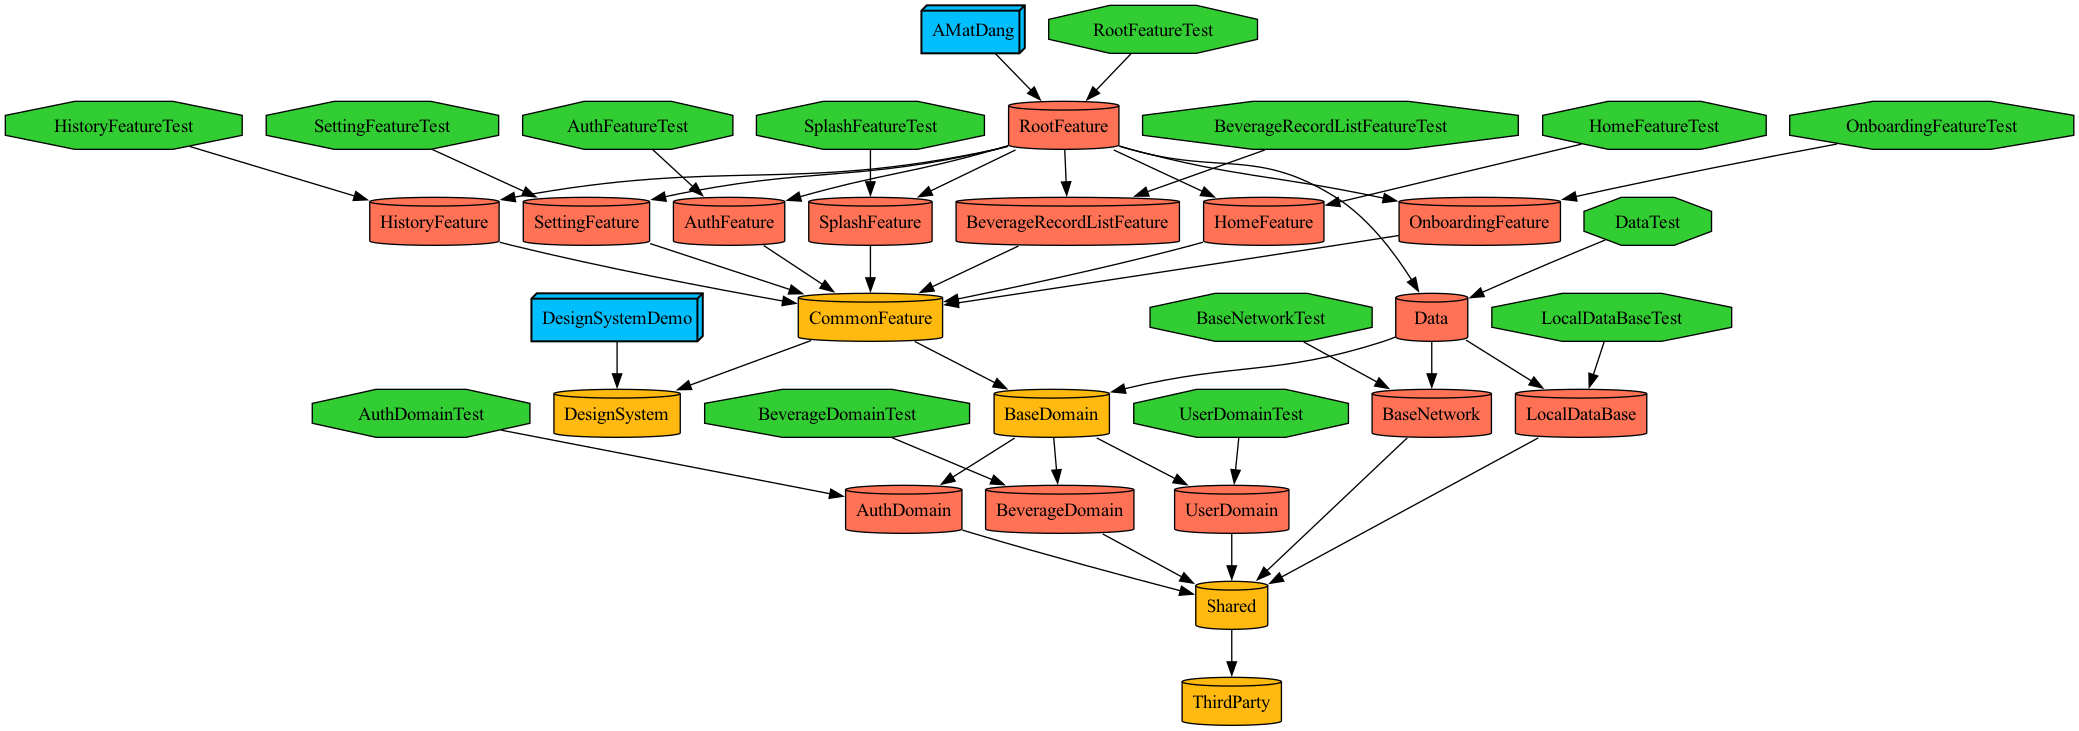
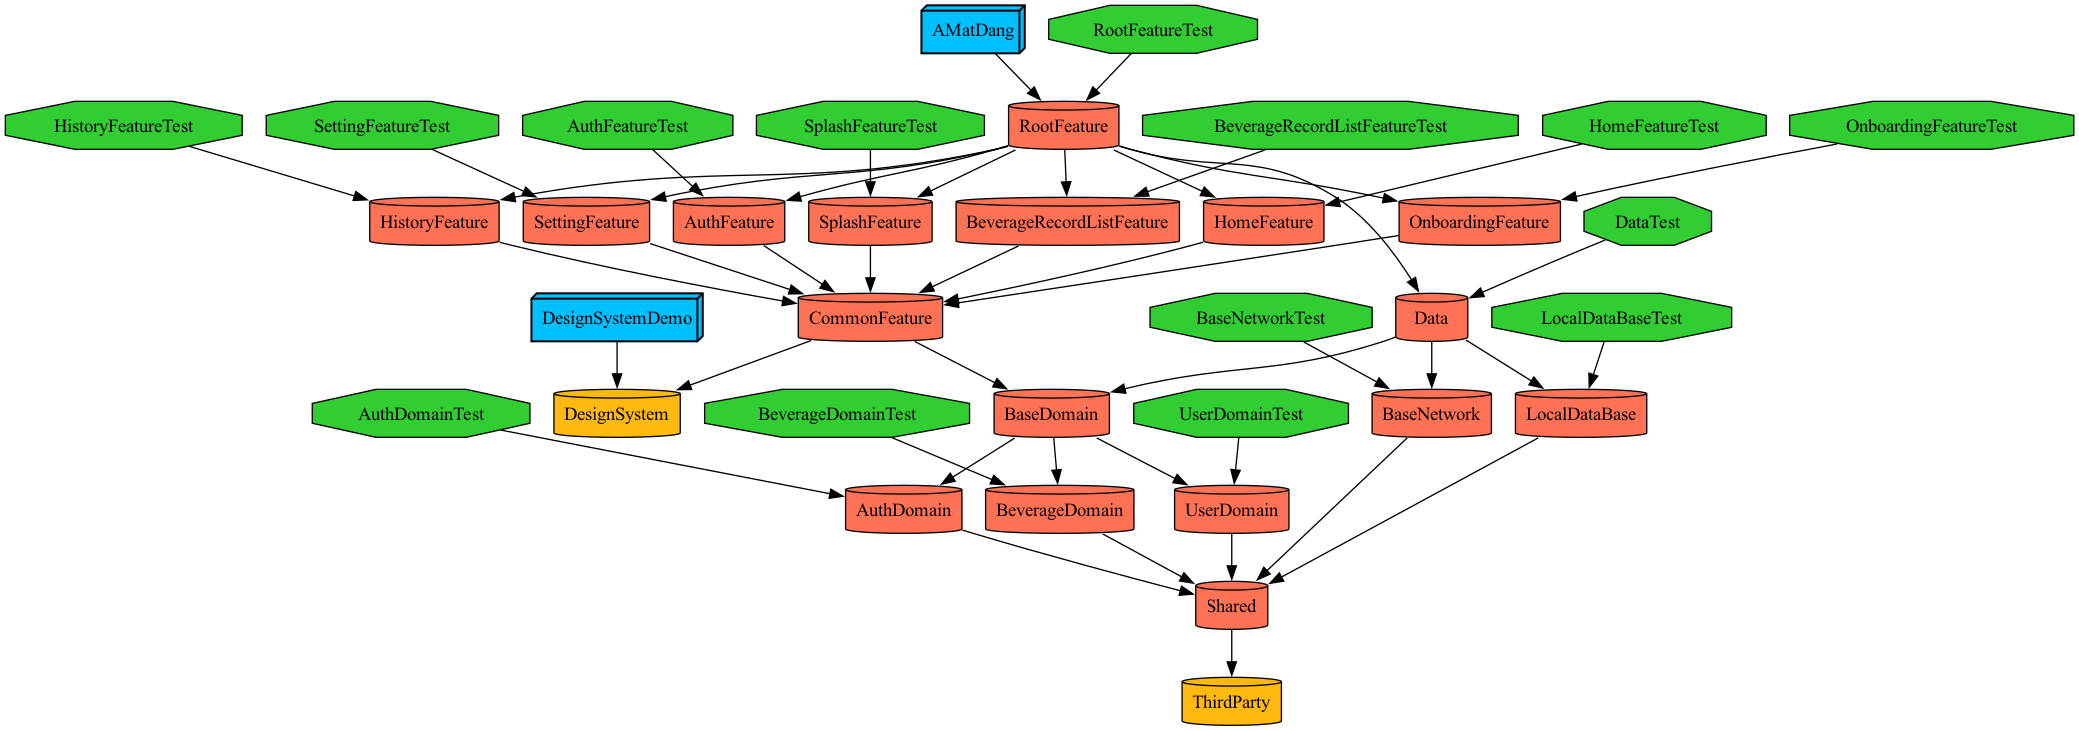
build: ThirdParty umbrella 도입 및 공통 모듈 staticFramework 전환
- 공통 SPM(Dependencies, DependenciesMacros, AsyncAlgorithms)을
  ThirdParty 에 @_exported 로 재노출, 소비 모듈은 ThirdParty 만 import
- Shared / CommonFeature / BaseDomain 및 관련 SPM 6종을
  staticFramework 로 전환 (WWDC22 "Link fast" 가이드 기반)
- Amplitude 는 Shared 직접 의존성으로 이동

Changed region(s): [[0.3694, 0.3912, 0.4618, 0.4815], [0.4618, 0.5116, 0.5541, 0.6019], [0.5541, 0.7825, 0.6157, 0.8728]]

diff --git a/HumanNeverDie/Tuist/Package.swift b/HumanNeverDie/Tuist/Package.swift
@@ -6,15 +6,15 @@ import struct ProjectDescription.PackageSettings
 
 let packageSettings = PackageSettings(
     productTypes: [
-        "Dependencies": .framework,
+        "Dependencies": .staticFramework,
         "IssueReporting": .framework,
         "XCTestDynamicOverlay": .framework,
         "Nuke": .framework,
         "Alamofire": .framework,
         "Lottie": .framework,
-        "AsyncAlgorithms": .framework,
-        "Auth0": .framework,
-        "AmplitudeSwift": .framework,
+        "AsyncAlgorithms": .staticFramework,
+        "Auth0": .staticFramework,
+        "AmplitudeSwift": .staticFramework,
         "FirebaseMessaging": .staticFramework
     ]
 )

diff --git a/HumanNeverDie/Projects/Domain/BeverageDomain/Project.swift b/HumanNeverDie/Projects/Domain/BeverageDomain/Project.swift
@@ -11,7 +11,6 @@ import ProjectDescriptionHelpers
 let project = Project.makeDomain(
     name: Modules.Domain.Beverage.rawValue,
     dependencies: [
-        .shared,
-        .SPM.dependenciesMacros
+        .shared
     ]
 )

diff --git a/HumanNeverDie/Projects/Shared/Shared/Project.swift b/HumanNeverDie/Projects/Shared/Shared/Project.swift
@@ -3,8 +3,9 @@ import ProjectDescriptionHelpers
 
 let project = Project.makeModule(
     name: Modules.Shared.name,
-    product: .framework,
+    product: .staticFramework,
     dependencies: [
+        .SPM.amplitude,
         .thirdParty
     ],
     hasTests: false

diff --git a/HumanNeverDie/Projects/CommonFeature/CommonFeature/Project.swift b/HumanNeverDie/Projects/CommonFeature/CommonFeature/Project.swift
@@ -3,7 +3,7 @@ import ProjectDescriptionHelpers
 
 let project = Project.makeModule(
     name: Modules.CommonFeature.name,
-    product: .framework,
+    product: .staticFramework,
     dependencies: [
         .designSystem,
         .baseDomain

diff --git a/HumanNeverDie/Projects/Domain/BaseDomain/Project.swift b/HumanNeverDie/Projects/Domain/BaseDomain/Project.swift
@@ -3,7 +3,7 @@ import ProjectDescriptionHelpers
 
 let project = Project.makeModule(
     name: Modules.BaseDomain.name,
-    product: .framework,
+    product: .staticFramework,
     dependencies: [
         .domain(module: .Auth),
         .domain(module: .Beverage),